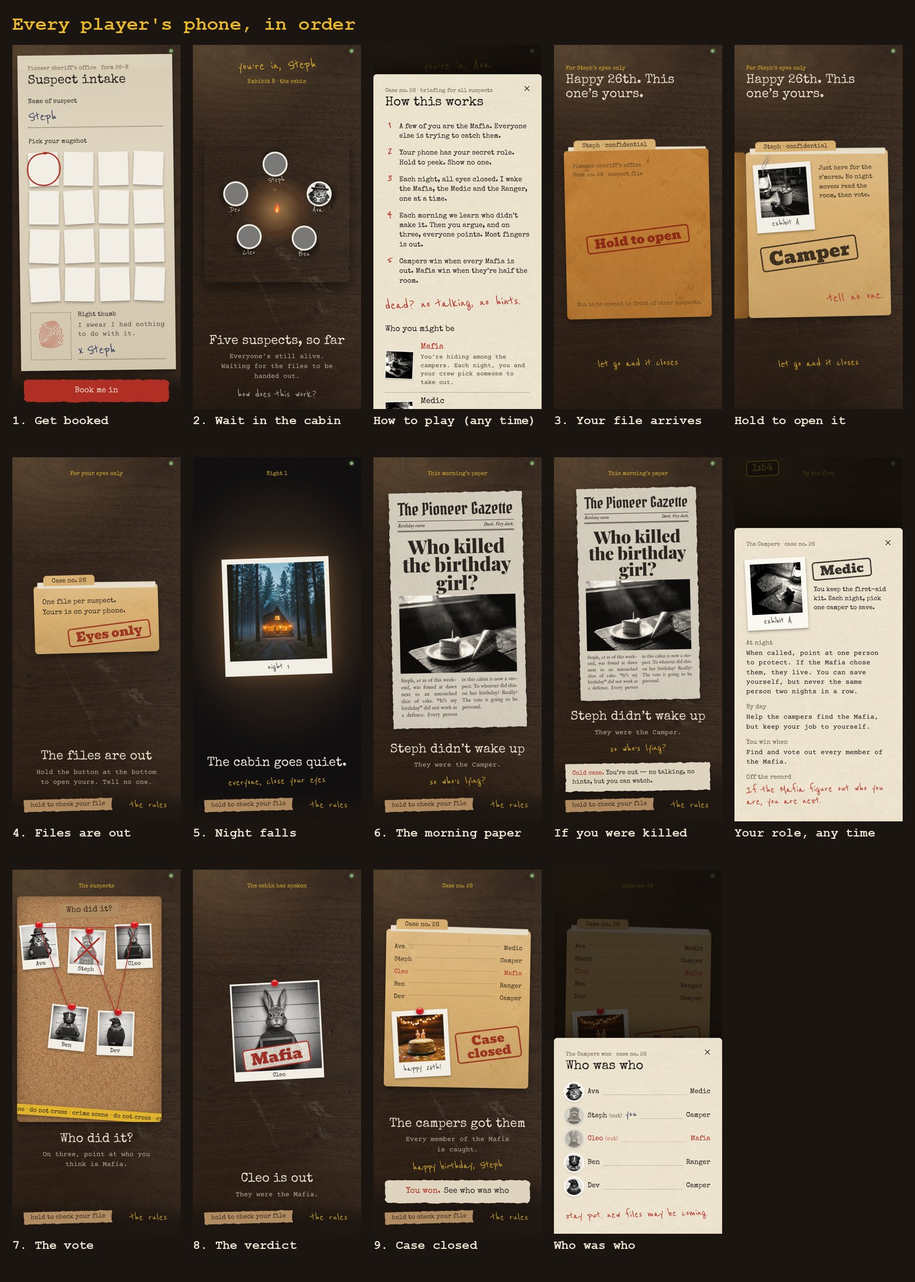
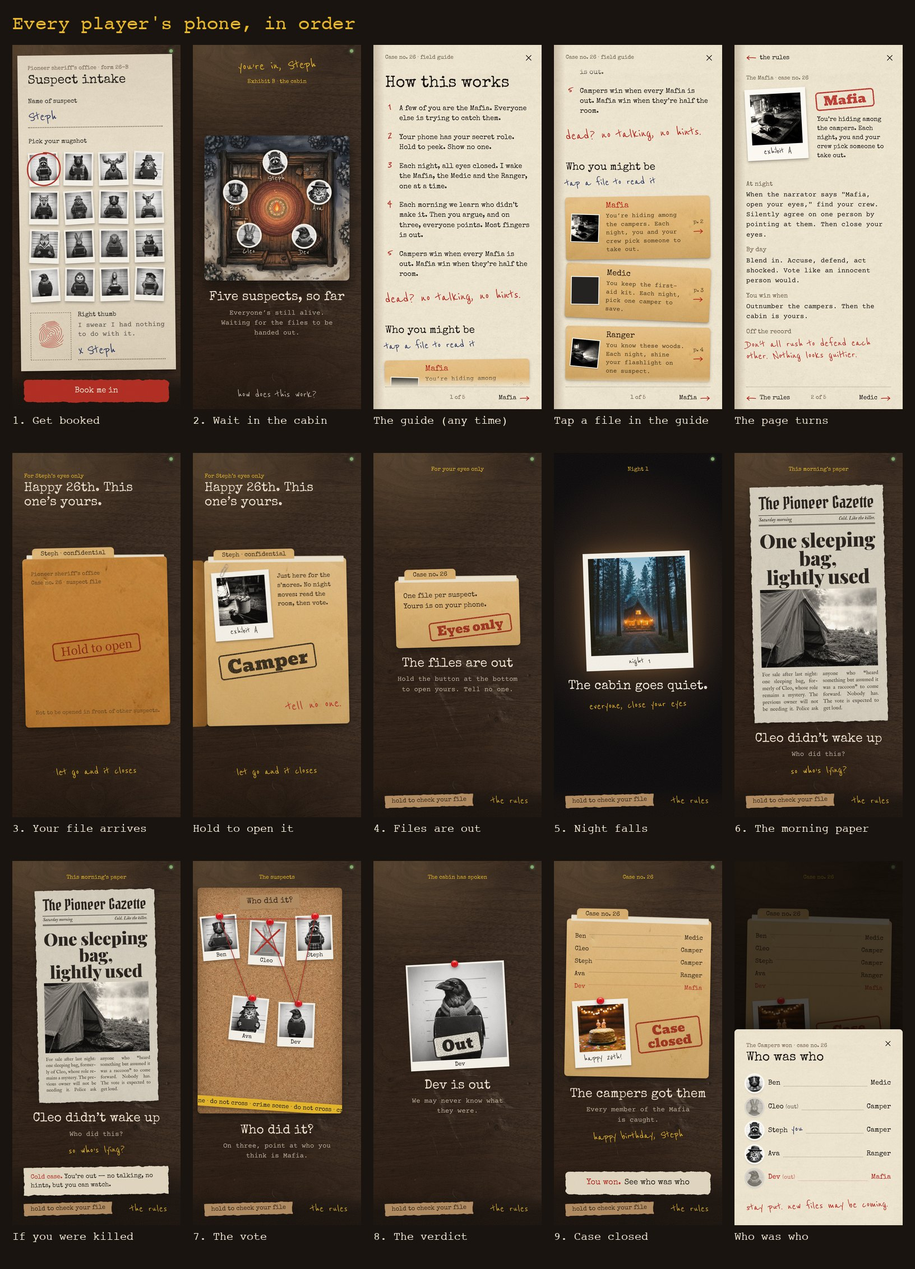
Tour sheets: the field guide and regrouped layouts

diff --git a/scripts/tour.py b/scripts/tour.py
@@ -23,7 +23,7 @@ def font(size, mono=True):
 SHEETS = {
     '1-player-phones': ('Every player\'s phone, in order', 5, 300, [
         ('03-join-form', '1. Get booked'), ('05-player-lobby', '2. Wait in the cabin'), ('05b-phone-how-to', 'The guide (any time)'),
-        ('05c-phone-guide-files', 'Tap a file in the guide'), ('05d-phone-guide-role', 'The page turns to that role'),
+        ('05c-phone-guide-files', 'Tap a file in the guide'), ('05d-phone-guide-role', 'The page turns'),
         ('07-reveal-hidden', '3. Your file arrives'), ('08-reveal-peek', 'Hold to open it'), ('10-play-day0', '4. Files are out'),
         ('13-phone-night', '5. Night falls'), ('19-phone-mafia-morning', '6. The morning paper'), ('18-phone-ghost', 'If you were killed'),
         ('24b-phone-vote', '7. The vote'), ('25b-phone-verdict', '8. The verdict'), ('26b-phone-case-closed', '9. Case closed'), ('28-phone-who-was-who', 'Who was who'),
